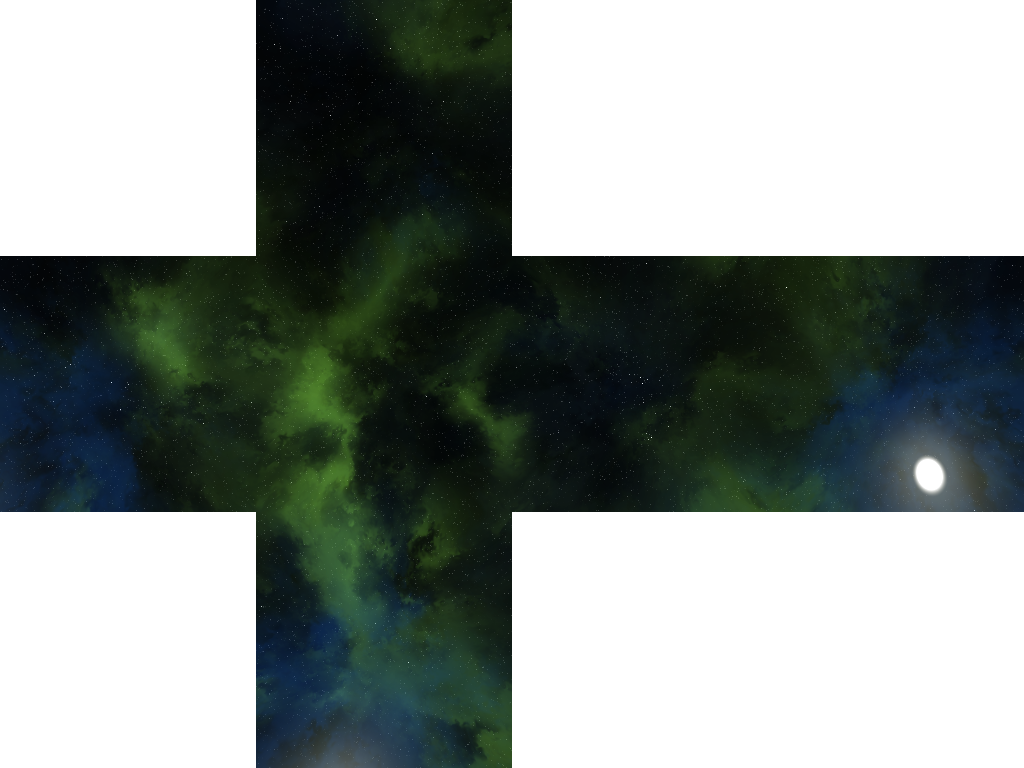
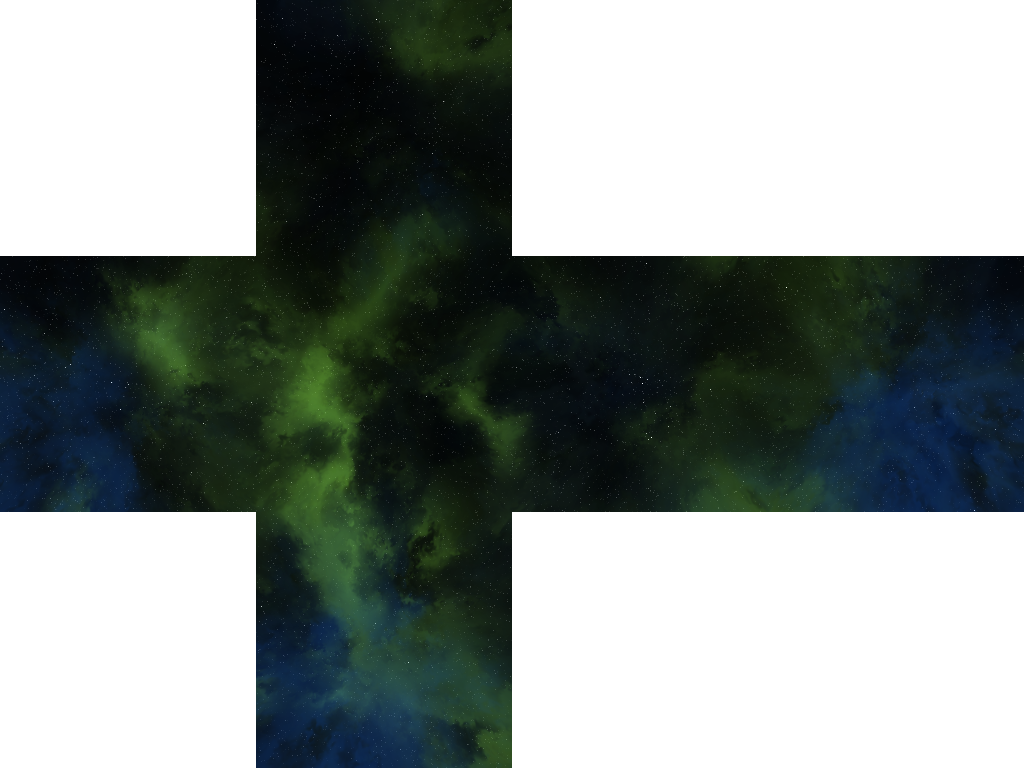
Visual update

Changed region(s): [[0.8438, 0.5312, 1.0, 0.6875], [0.25, 0.9375, 0.4062, 1.0]]

diff --git a/code/UI/HUD/PlayerHUD.razor.scss b/code/UI/HUD/PlayerHUD.razor.scss
@@ -1,0 +1,24 @@
+PlayerHUD {
+    position: absolute;
+    z-index: -1;
+    top: 0;
+    left: 0;
+    width: 100%;
+    height: 100%;
+
+    .main {
+        position: absolute;
+        width: 100%;
+        height: 96px;
+        left: 0;
+        bottom: 16px;
+        flex-direction: row;
+        justify-content: center;
+        gap: 10px;
+
+        > .disk {
+            width: 96px;
+            height: 96px;
+        }
+    }
+}

diff --git a/code/UI/HUD/Crosshair.razor.scss b/code/UI/HUD/Crosshair.razor.scss
@@ -1,0 +1,17 @@
+Crosshair {
+/*    position: absolute;
+    z-index: -1;
+    top: 0;
+    left: 0;
+    width: 100%;
+    height: 100%;*/
+
+    img {
+        position: absolute;
+        top: 50%;
+        left: 50%;
+        width: 32px;
+        height: 32px;
+        transform: translate(-50%, -50%);
+    }
+}

diff --git a/code/Reflector.cs b/code/Reflector.cs
@@ -7,6 +7,9 @@ public class Reflector : Component, Component.INetworkListener
 	[Property]
 	private GameObject playerPrefab;
 
+	[Property]
+	private List<GameObject> spawnPoints = new();
+
 	private NetList<Guid> playerIds = new();
 
 	public List<GameObject> PlayerObjects
@@ -39,7 +42,9 @@ public class Reflector : Component, Component.INetworkListener
 		if ( !playerPrefab.IsValid() )
 			return;
 
-		GameObject playerObject = playerPrefab.Clone( Transform.World.WithScale( 1 ).WithRotation( Rotation.Identity ), name: $"Player - {channel.DisplayName}" );
+		Transform spawnPoint = GetRandomSpawnpoint();
+
+		GameObject playerObject = playerPrefab.Clone( spawnPoint.WithScale( 1 ), name: $"Player - {channel.DisplayName}" );
 		playerObject.NetworkSpawn( channel );
 
 		_ = SetupPlayer( playerObject );
@@ -68,11 +73,19 @@ public class Reflector : Component, Component.INetworkListener
 		Networking.CreateLobby();
 	}
 
-	private async Task SetupPlayer(GameObject playerObject)
+	private async Task SetupPlayer( GameObject playerObject )
 	{
 		await Task.Delay( 1 );
 		Player player = playerObject.GetComponent<Player>();
 		player.Reflector = this;
 		//player.Spectate( true );
+	}
+
+	private Transform GetRandomSpawnpoint()
+	{
+		GameObject spawn = spawnPoints[Game.Random.Next( 0, spawnPoints.Count - 1 )];
+
+
+		return spawn.Transform.World;
 	}
 }

diff --git a/code/Disk/DiskWeapon.cs b/code/Disk/DiskWeapon.cs
@@ -25,9 +25,14 @@ public class DiskWeapon : Component
 	[Property]
 	private int defaultDiskCount = 3;
 
+	[Property]
+	private PlayerHUD playerHUD;
+
 	public void ReturnDisk( GameObject diskThrower )
 	{
 		diskCount--;
+
+		playerHUD.ChangeDisks( maxDisks - diskCount );
 
 		if ( diskThrower.Id == defaultDiskThrower.GameObject.Id )
 			return;
@@ -93,5 +98,7 @@ public class DiskWeapon : Component
 		disk.Shoot( Player );
 
 		diskCount++;
+
+		playerHUD.ChangeDisks( maxDisks - diskCount );
 	}
 }

diff --git a/code/SkyRotate.cs b/code/SkyRotate.cs
@@ -1,0 +1,16 @@
+public class SkyRotate : Component
+{
+	[Property]
+	private float rotatingSpeed = 0.5f;
+
+
+	protected override void OnFixedUpdate()
+	{
+		Angles angles = WorldRotation.Angles();
+		angles.pitch = Time.Now * rotatingSpeed;
+		angles.yaw = Time.Now * rotatingSpeed;
+
+		WorldRotation = angles;
+
+	}
+}
